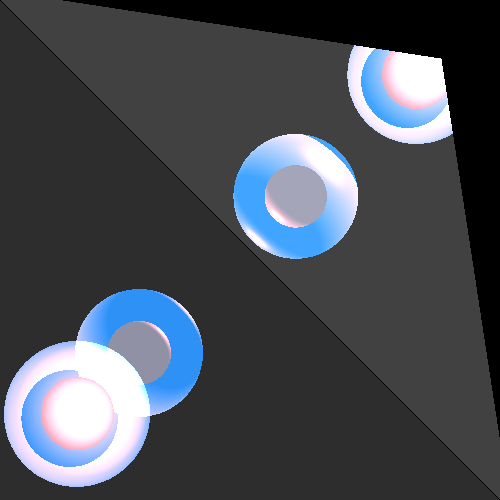
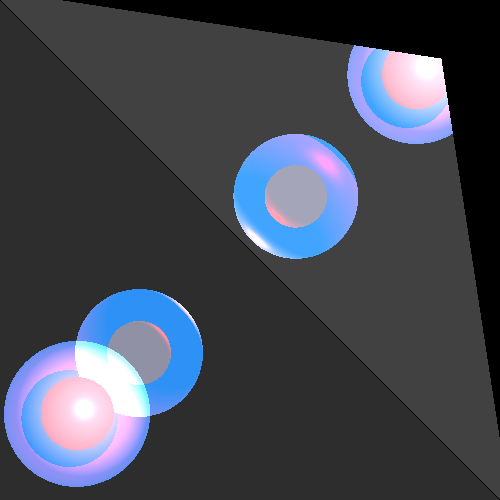
second step stage 7

diff --git a/src/renderer/RayTracerBasic.java b/src/renderer/RayTracerBasic.java
@@ -21,7 +21,6 @@ public class RayTracerBasic extends RayTracerBase {
     //----------------------------fields--------------------------
 
 
-
     /**
      * The maximum level of color calculation recursion.
      * Higher values allow for more accurate shading but increase computation time.
@@ -51,6 +50,40 @@ public class RayTracerBasic extends RayTracerBase {
 
     //------------------------------functions---------------------------
 
+    private Double3 transparency(GeoPoint geoPoint, LightSource ls, Vector l, Vector n) {
+        // Pay attention to your method of distance screening
+        Vector lightDirection = l.scale(-1); // from point to light source
+        Point point = geoPoint.point;
+        Ray lightRay = new Ray(point, n, lightDirection);
+
+        double maxdistance = ls.getDistance(point);
+        List<GeoPoint> intersections = scene.geometries.findGeoIntersections(lightRay);
+        if (intersections == null)
+            return Double3.ONE;
+
+        for (GeoPoint intersectionPoint : intersections) {
+            if (ls.getDistance(geoPoint.point) <= geoPoint.point.distance(intersectionPoint.point)) {
+                // Remove intersection points that are farther away from the light source than the current point
+                intersections.remove(intersectionPoint);
+            }
+        }
+        Double3 ktr = Double3.ONE;
+//        loop over intersections and for each intersection which is closer to the
+//        point than the light source multiply ktr by 𝒌𝑻 of its geometry.
+//        Performance:
+//        if you get close to 0 –it’s time to get out( return 0)
+        for (var geo : intersections) {
+            if (ls.getDistance(geoPoint.point) >= geoPoint.point.distance(geo.point)) {
+                ktr = ktr.product(geo.geometry.getMaterial().kT);
+                if (ktr.lowerThan(MIN_CALC_COLOR_K)) {
+                    return Double3.ZERO;
+                }
+            }
+        }
+        return ktr;
+    }
+
+
     /**
      * Checks if a point on a surface is unshaded by other objects in the scene, given a light source.
      *
@@ -76,7 +109,7 @@ public class RayTracerBasic extends RayTracerBase {
             //Point point = gp.point.add(epsVector);
 
             // Create a ray from the point towards the light source
-            Ray lightRay = new Ray(gp.point,n, lightDirection);
+            Ray lightRay = new Ray(gp.point, n, lightDirection);
 
             // Find intersections between the ray and the geometry in the scene
             List<GeoPoint> intersections = scene.geometries.findGeoIntersections(lightRay);
@@ -126,7 +159,7 @@ public class RayTracerBasic extends RayTracerBase {
      * such as diffuse and specular reflections.
      *
      * @param intersection The intersection point on the geometry
-     * @param ray   The ray that intersected with the geometry
+     * @param ray          The ray that intersected with the geometry
      * @return The color at the intersection point
      */
     /*
@@ -154,7 +187,7 @@ public class RayTracerBasic extends RayTracerBase {
 
     */
     private Color calcColor(GeoPoint intersection, Ray ray, int level, Double3 k) {
-        Color color = calcLocalEffects(intersection, ray);
+        Color color = calcLocalEffects(intersection, ray, k);
         return 1 == level ? color
                 : color.add(calcGlobalEffects(intersection, ray, level, k));
     }
@@ -172,7 +205,7 @@ public class RayTracerBasic extends RayTracerBase {
      * @param ray The ray that intersected with the geometry
      * @return The color of the local effects at the intersection point
      */
-    private Color calcLocalEffects(GeoPoint gp, Ray ray) {
+    private Color calcLocalEffects(GeoPoint gp, Ray ray, Double3 k) {
         Color color = gp.geometry.getEmission(); // Start with the emission color of the geometry
 
         Vector v = ray.getDir(); // View direction vector
@@ -194,8 +227,11 @@ public class RayTracerBasic extends RayTracerBase {
 
             // Check if the light is on the same side as the view direction
             if (nl * nv > 0) {
-                if (unshaded(gp, lightSource, l, n, nl)) {
-                    Color iL = lightSource.getIntensity(gp.point); // Intensity of the light source at the intersection point
+                //if (unshaded(gp, lightSource, l, n, nl)){
+                Double3 ktr = transparency(gp, lightSource, l, n);
+                if (!ktr.product(k).lowerThan(MIN_CALC_COLOR_K)) {
+
+                    Color iL = lightSource.getIntensity(gp.point).scale(ktr); // Intensity of the light source at the intersection point
 
                     // Calculate the contributions of diffuse and specular reflections
                     color = color.add(
@@ -282,7 +318,7 @@ public class RayTracerBasic extends RayTracerBase {
      */
     private Ray constructRefractedRay(Point point, Vector v, Vector n) {
 
-        return new Ray(point,n,v);
+        return new Ray(point, n, v);
         /*
         double nv = alignZero(v.dotProduct(n.normalize()));
 
@@ -329,7 +365,7 @@ public class RayTracerBasic extends RayTracerBase {
         Vector r = v.subtract(n.scale(2 * vn));
 
         // Create a new ray with the reflected direction starting from the given point.
-        return new Ray(pointGeo,n, r);
+        return new Ray(pointGeo, n, r);
     }
 
 
